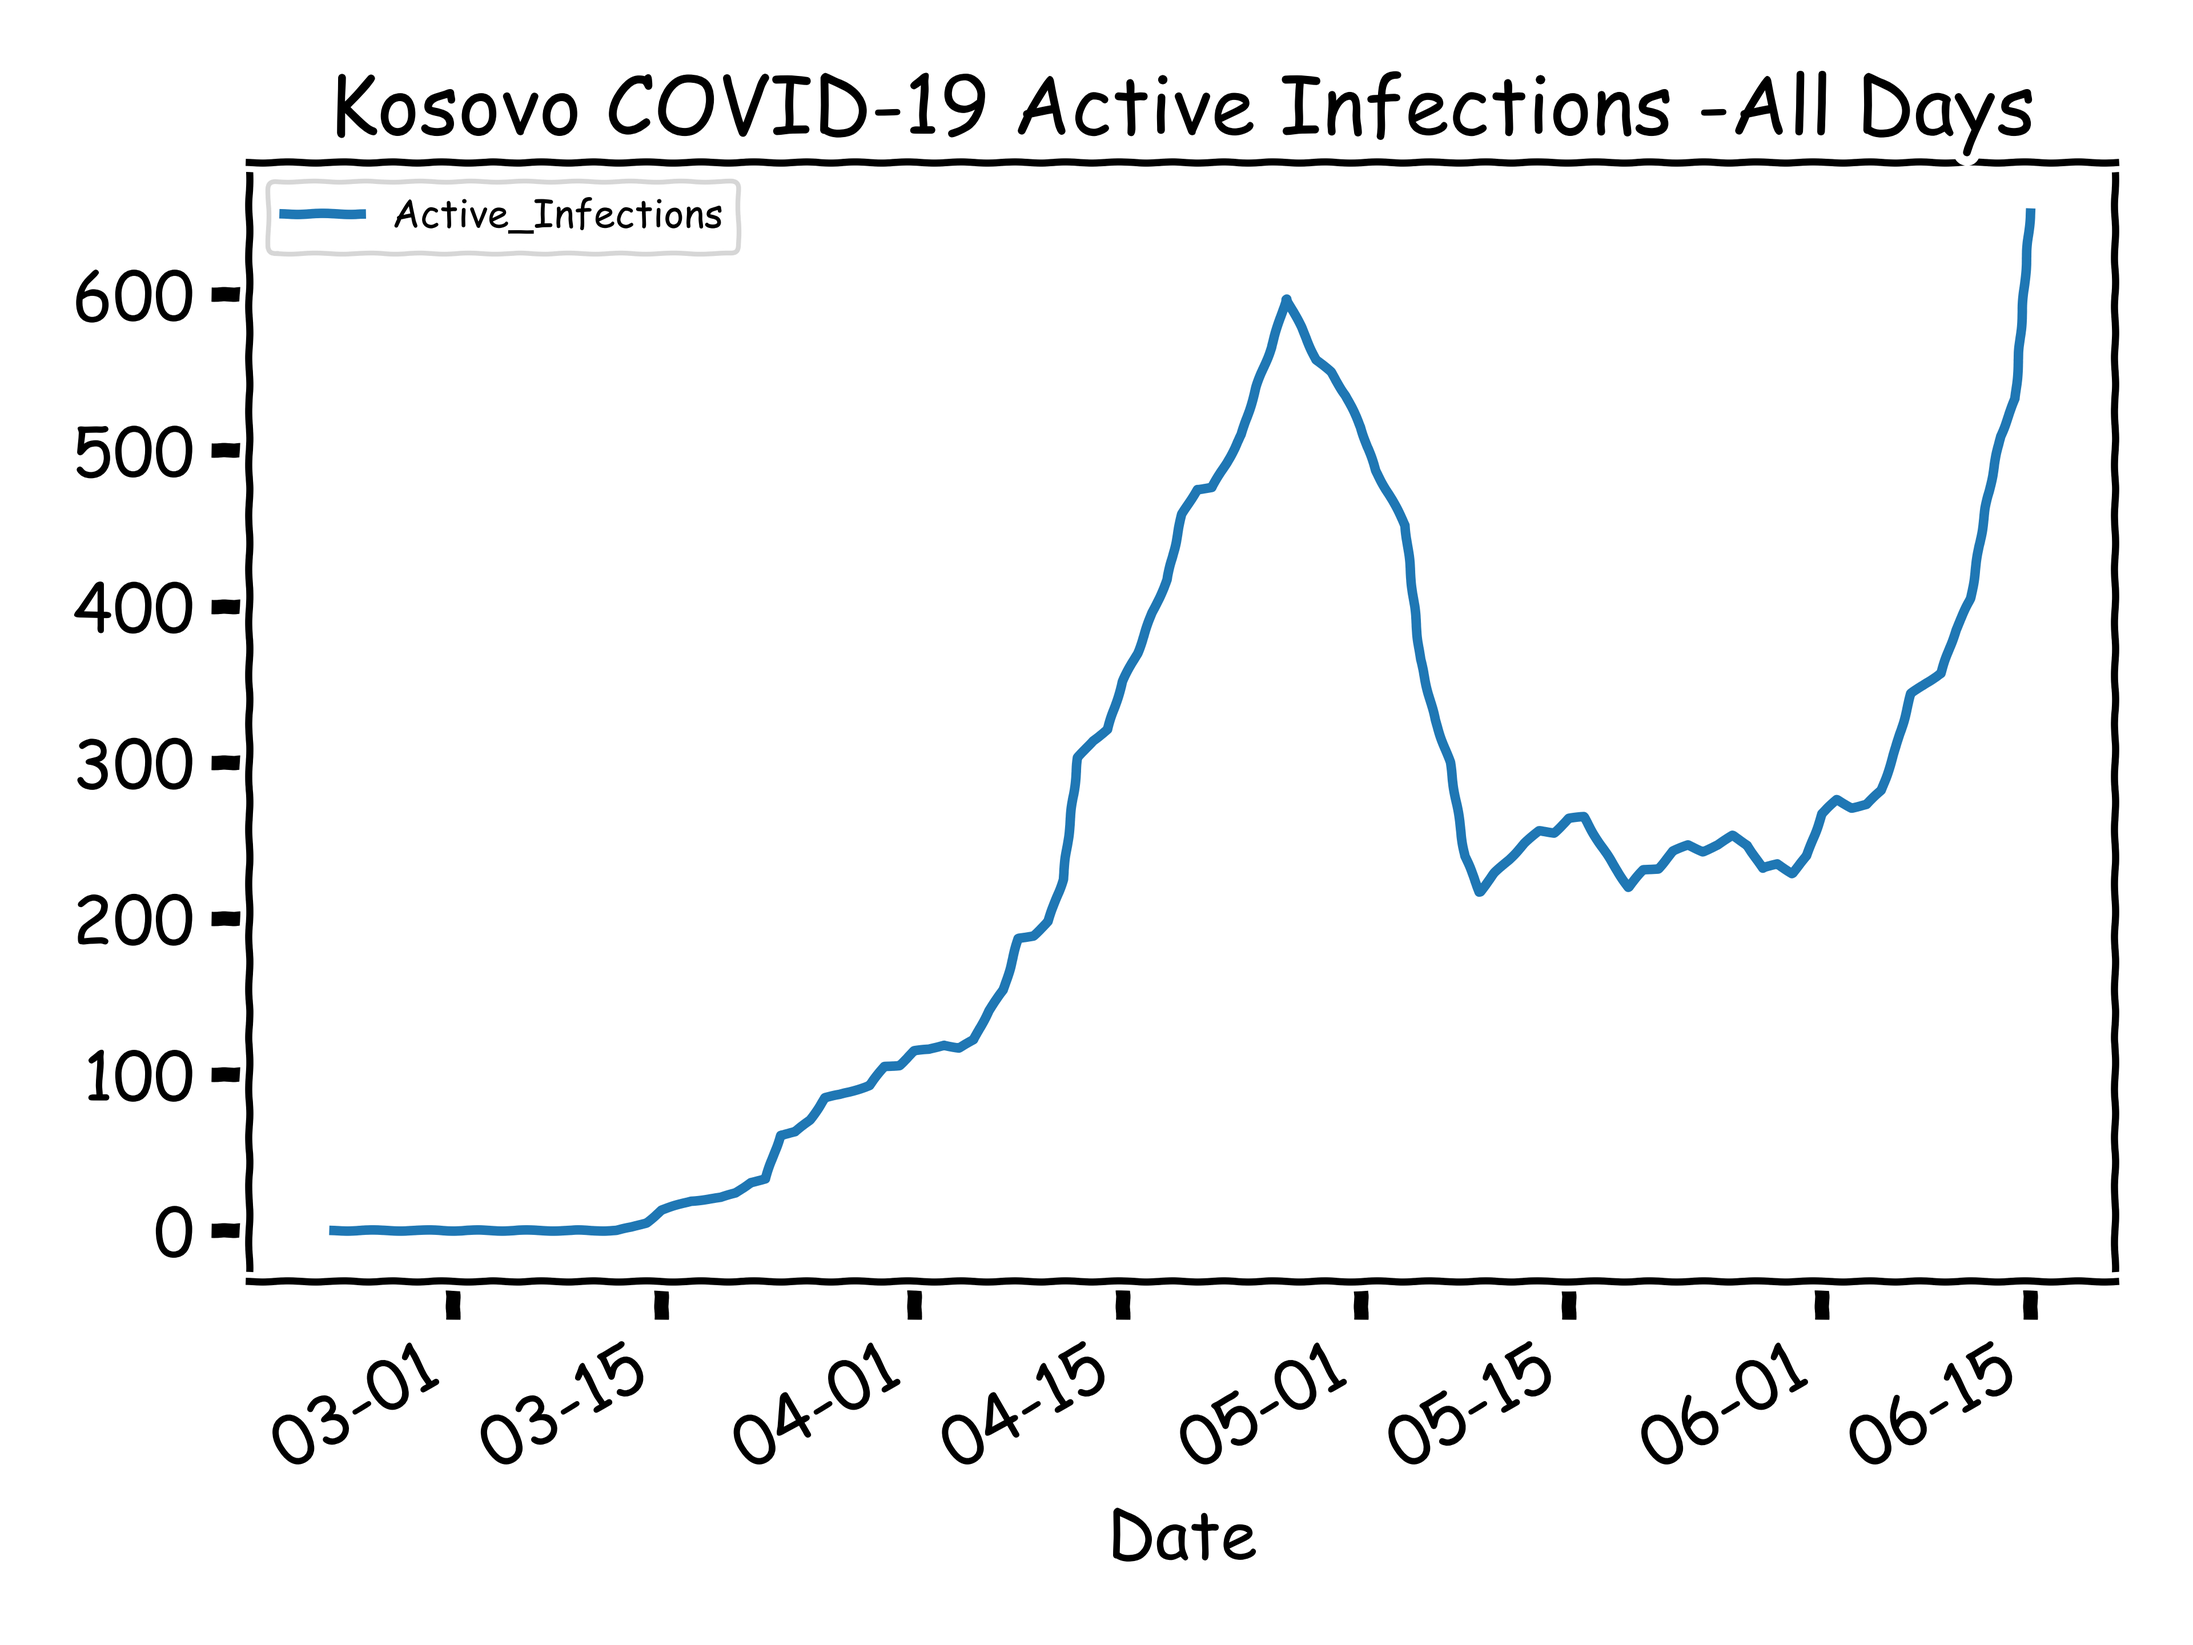
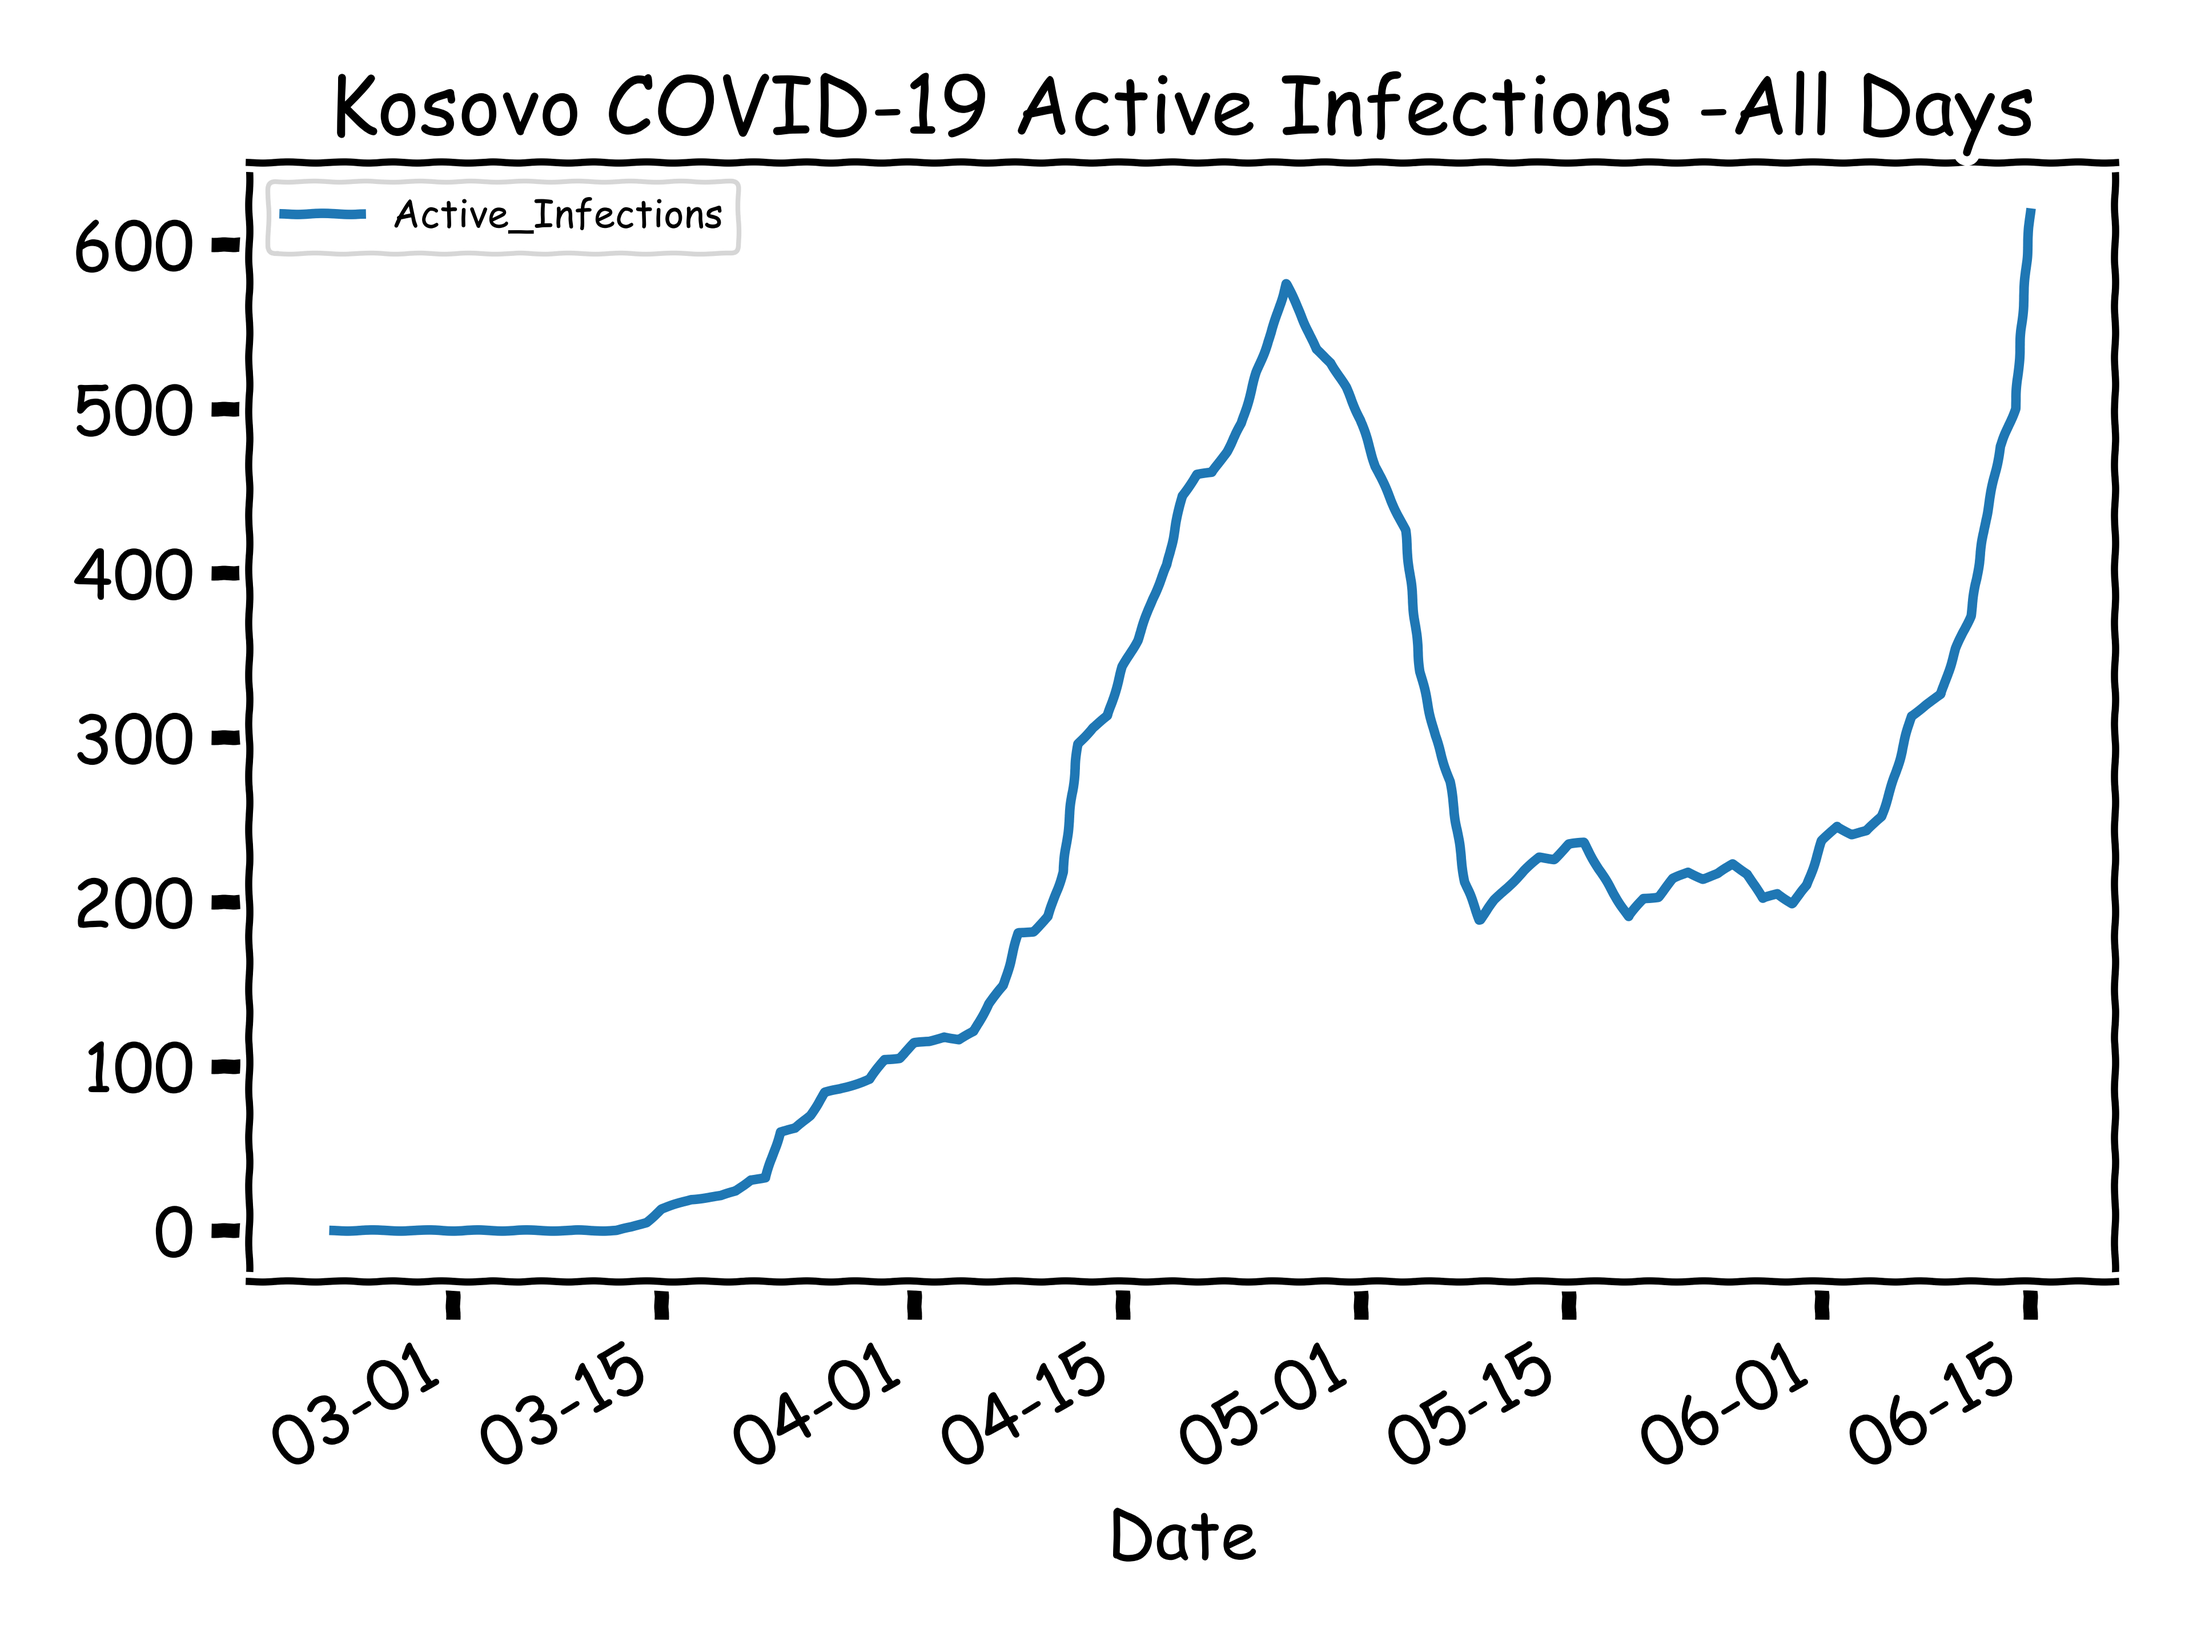
Daily push for 20200617

diff --git a/covid.py b/covid.py
@@ -7,7 +7,10 @@ import os
 import matplotlib.dates as mdates
 import matplotlib.pyplot as plt
 from sklearn.linear_model import LinearRegression
+from sklearn.pipeline import make_pipeline
+from sklearn.preprocessing import PolynomialFeatures
 
+import numpy
 import pandas
 
 
@@ -38,7 +41,7 @@ COVID_Raw[['Hospitalizations_Cum']] = COVID_Raw[['Hospitalizations_Raw']].cumsum
 COVID_Raw[['Hospitalizations_Delta']] = COVID_Raw[['Hospitalizations_Raw']].pct_change()
 
 COVID_Raw['Tested_Positive_Ratio'] = (COVID_Raw['Positive_Raw'] / COVID_Raw['Tested_Raw']) * 100
-COVID_Raw['Active_Infections'] = (COVID_Raw['Positive_Cum'] - COVID_Raw['Recovered_Cum'])
+COVID_Raw['Active_Infections'] = (COVID_Raw['Positive_Cum'] - (COVID_Raw['Recovered_Cum'] + COVID_Raw['Died_Cum']))
 
 COVID_Raw[['Positive_2D_Mean']] = COVID_Raw[['Positive_Raw']].rolling(2).mean()
 COVID_Raw[['Positive_3D_Mean']] = COVID_Raw[['Positive_Raw']].rolling(3).mean()
@@ -66,6 +69,17 @@ with pandas.ExcelWriter('{0}_Kosovo_COVID.xlsx'.format(date)) as writer:
     COVID_Raw.fillna(0).to_excel(writer, sheet_name='Kosovo Raw Data', columns=column_order)
 
 with plt.xkcd():
+
+    CPDelta_df = COVID_Raw[['Positive_Raw']]
+    CPDelta_df['days_from_start'] = (CPDelta_df.index - CPDelta_df.index[0]).days
+    X = CPDelta_df.days_from_start.values.reshape(-1, 1)  # values converts it into a numpy array
+    Y = CPDelta_df.Positive_Raw.values.reshape(-1, 1)  # -1 means that calculate the dimension of rows, but have 1 column
+    linear_regressor = LinearRegression()  # create object for the class
+    linear_regressor.fit(X, Y)  # perform linear regression
+    Y_pred = linear_regressor.predict(X)  # make predictions
+    plt.scatter(X, Y)
+    plt.plot(X, Y_pred, color='red')
+    plt.savefig('Kosovo COVID-19 Raw wLinReg -All Days Plot.png', dpi=600)
 
     CPDelta_df = COVID_Raw[['Positive_Raw']]
     deltaFig = CPDelta_df.plot(title='Kosovo COVID-19 Cases -All Days')

diff --git a/LinTest.py b/LinTest.py
@@ -1,0 +1,16 @@
+import numpy as np
+import matplotlib.pyplot as plt  # To visualize
+import pandas  # To read data
+from sklearn.linear_model import LinearRegression
+
+COVID_Raw = pandas.read_csv("./Data/COVID_Raw.csv")
+COVID_Raw['Date'] = pandas.to_datetime(COVID_Raw['Date'])
+X = COVID_Raw.index.values.reshape(-1, 1)  # values converts it into a numpy array
+Y = COVID_Raw.Positive_Raw.values.reshape(-1, 1)  # -1 means that calculate the dimension of rows, but have 1 column
+linear_regressor = LinearRegression()  # create object for the class
+linear_regressor.fit(X, Y)  # perform linear regression
+Y_pred = linear_regressor.predict(X)  # make predictions
+
+plt.scatter(X, Y)
+plt.plot(X, Y_pred, color='red')
+plt.show()
